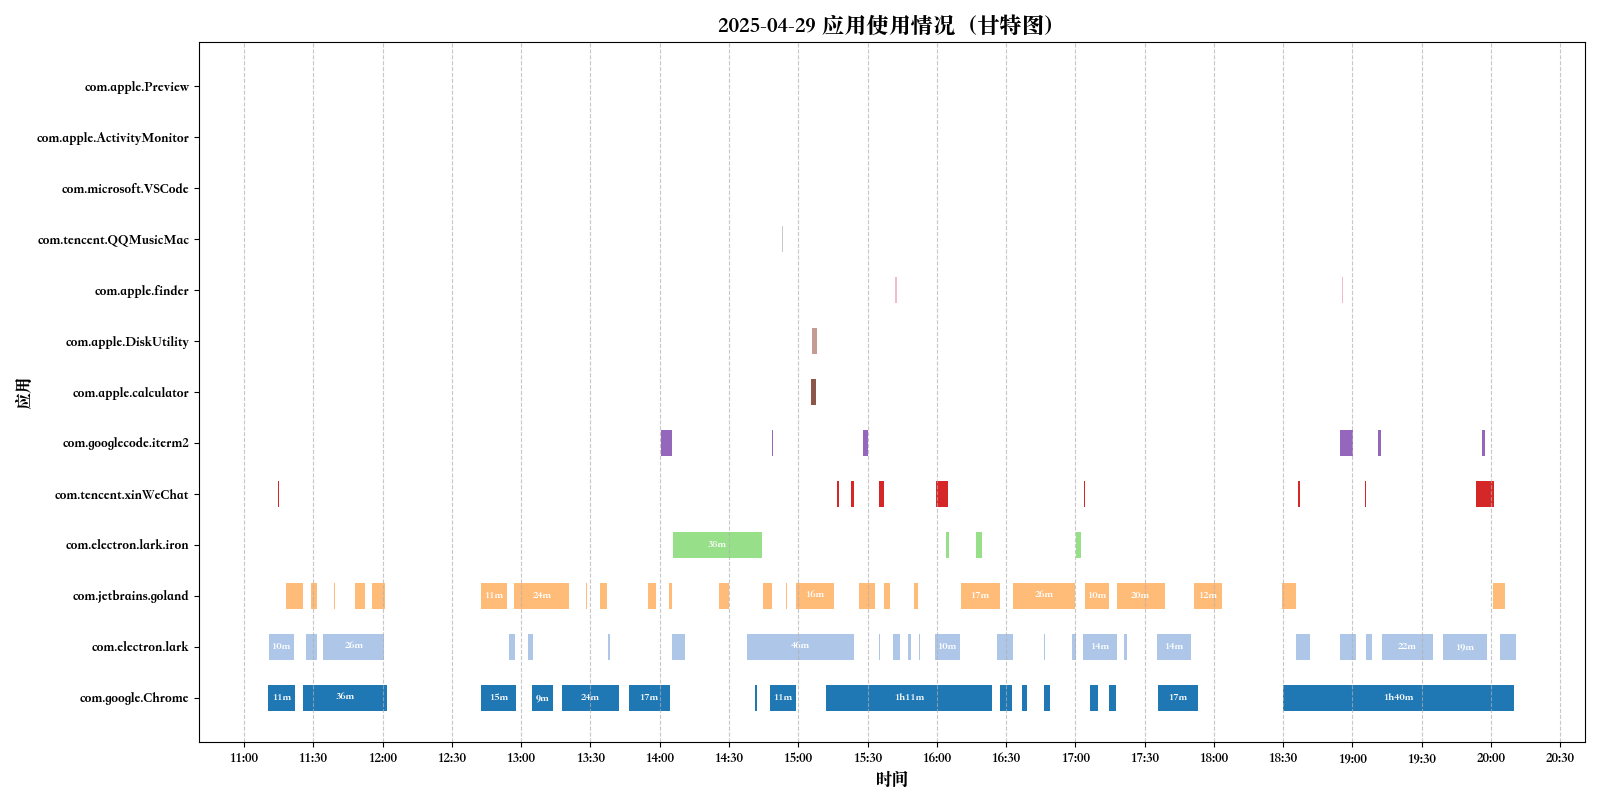
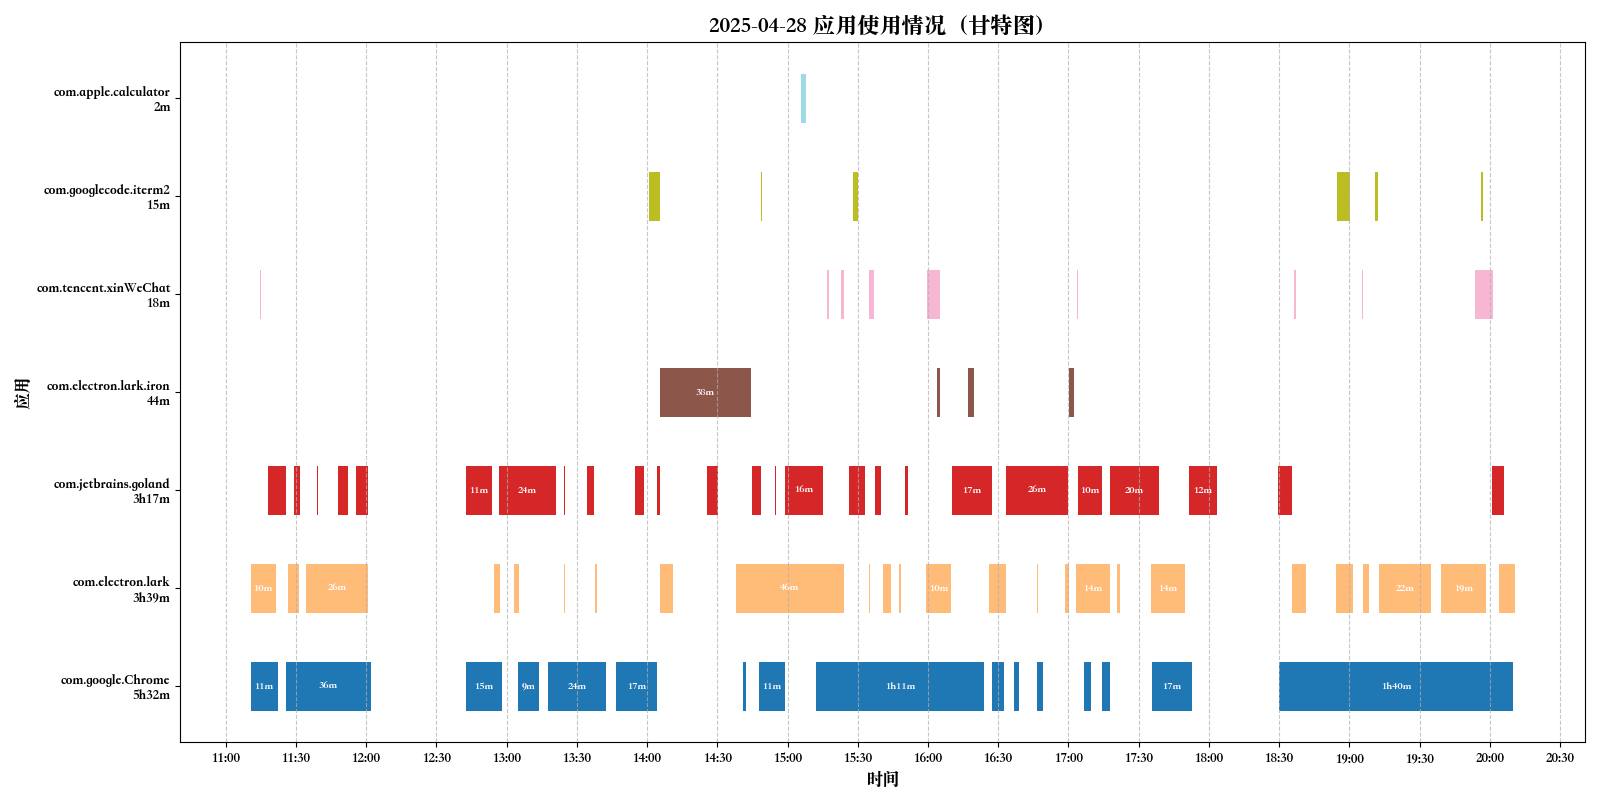
refactor: optimize code structure and documentation

diff --git a/main.py b/main.py
@@ -72,7 +72,17 @@ def visualize_app_usage(app_usage):
 
 def generate_gantt_chart(df):
     # 合并相邻时间段的函数
-    def merge_intervals(group):
+    def merge_intervals(group: pd.DataFrame) -> pd.DataFrame:
+        """
+        合并相邻时间段
+        
+        Args:
+            group: 按应用分组的时间段数据
+            threshold: 合并间隔阈值（分钟）
+        
+        Returns:
+            合并后的时间段DataFrame
+        """
         if len(group) == 0:
             return group
         # 按开始时间排序
@@ -102,11 +112,18 @@ def generate_gantt_chart(df):
     df['start_minutes'] = df['start_time'].dt.hour * 60 + df['start_time'].dt.minute + df['start_time'].dt.second / 60
     df['duration'] = (df['end_time'] - df['start_time']).dt.total_seconds() / 60
 
-    # 按总使用时长排序，给应用编号，确保 y 轴不重叠
-    total_usage = df.groupby('app_name')['duration'].sum().sort_values(ascending=False)
+    # 按总使用时长排序并过滤总时长≥2分钟的应用
+    total_usage = df.groupby('app_name')['duration'].sum()
+    total_usage = total_usage[total_usage >= 2].sort_values(ascending=False)
+    
+    # 重建应用顺序映射
     app_order = {app: i for i, app in enumerate(total_usage.index)}
+    df = df[df['app_name'].isin(total_usage.index)]  # 过滤数据集
     df['y'] = df['app_name'].map(app_order)
     df = df.sort_values('y')  # 排序
+
+    # 更新颜色分配逻辑
+    unique_apps = total_usage.index.tolist()
 
     if df.empty:
         print("数据为空，无法绘制甘特图。")
@@ -122,16 +139,24 @@ def generate_gantt_chart(df):
 
     # 绘制甘特图
     fig, ax = plt.subplots(figsize=(16, 8))
-    ax.set_title("2025-04-29 应用使用情况（甘特图）", fontsize=16)
+    ax.set_title("2025-04-28 应用使用情况（甘特图）", fontsize=16)
 
-    # 为每个应用分配固定颜色
-    unique_apps = df['app_name'].unique()
+    # 使用过滤后的应用列表分配颜色
     colors = plt.cm.tab20(np.linspace(0, 1, len(unique_apps)))
     app_colors = {app: colors[i] for i, app in enumerate(unique_apps)}
 
+    def format_time(minutes):
+        hours = int(minutes // 60)
+        minutes = int(minutes % 60)
+        return f"{hours}h{minutes}m" if hours > 0 else f"{int(minutes)}m"
+    def format_duration(minutes: float) -> str:
+        """将分钟数格式化为小时分钟表示"""
+        return f"{int(minutes//60)}h{int(minutes%60)}m" if minutes >= 60 else f"{int(minutes)}m"
     bars = []  # 存储所有条形对象
     for _, row in df.iterrows():
-        bar = ax.barh(row['app_name'], row['duration'], 
+        # 在合并前计算总使用时长
+        total_usage_before_merge = df[df['end_time'] > df['start_time']].groupby('app_name')['duration'].sum().sort_values(ascending=False)
+        bar = ax.barh(f'{row["app_name"]}\n{format_time(total_usage_before_merge[row["app_name"]])}', row['duration'], 
                      left=row['start_minutes'], 
                      height=0.5,
                      color=app_colors[row['app_name']])  # 使用固定颜色
@@ -168,6 +193,12 @@ def generate_gantt_chart(df):
     plt.savefig("screen_time_gantt.png")
     plt.show()
 
+def convert_macos_timestamp(ts: float) -> pd.Timestamp:
+    """转换macOS时间戳为本地化时间对象"""
+    return pd.to_datetime(ts + MACOS_EPOCH_OFFSET, unit='s') \
+             .tz_localize('UTC') \
+             .tz_convert(TIMEZONE)
+
 if __name__ == "__main__":
     df = get_screen_time_data()
     if df.empty:
@@ -186,3 +217,7 @@ if __name__ == "__main__":
         # visualize_app_usage(app_usage)
         
         generate_gantt_chart(df)
+MACOS_EPOCH_OFFSET = 978307200  # macOS时间戳偏移量
+TARGET_DATE = "2025-04-29"       # 查询日期
+DB_PATH = "knowledgeC.db"        # 数据库路径
+TIMEZONE = timezone('Asia/Shanghai')  # 时区设置
